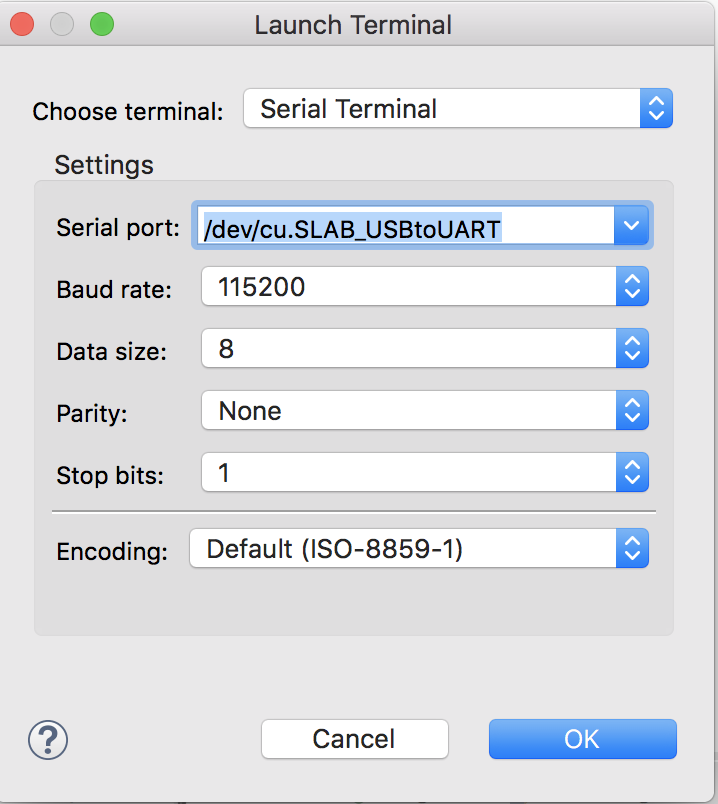
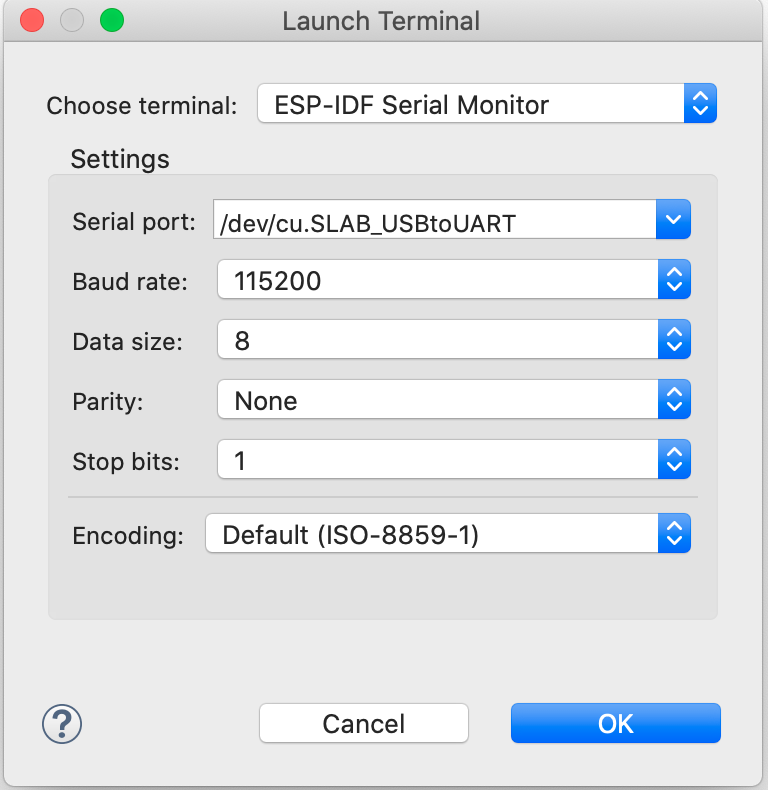
Update doc on ESP-IDF Serial Monitor

diff --git a/README.md b/README.md
@@ -15,6 +15,7 @@ IDF Eclipse Plugins aim to provide better tooling capabilities, which simplifies
 * [ CMake Editor](#cmakeproject)<br>
 * [ Debugging the Project ](#debugging)<br>
 * [ ESP-IDF Application Size Analysis Editor](#sizeanalysiseditor)<br>
+* [ ESP-IDF Terminal](#idfterminal)<br>
 * [ Configuring Build Environment Variables ](#configureEnvironmentVariables)<br>
 * [ Configuring Core Build Toolchain ](#ConfigureToolchains)<br>
 * [ Configuring CMake Toolchain ](#ConfigureCMakeToolchain)<br>
@@ -126,12 +127,12 @@ To provide the customized flash arguments, please follow [this](#customizeLaunch
 
 <a name="ConfigureLaunchTerminal"></a>
 # Viewing Serial Output
-To see the serial output in Eclipse, we need to configure the Eclipse terminal to connect to the serial port.
+To see the serial output in Eclipse, we need to configure the `ESP-IDF Serial Monitor` to connect to the serial port.
 
 * Click on the `Open a Terminal` icon from the toolbar
-* Choose `Serial Terminal` from the terminal drop-down
-* Select `Serial Port` for your board. Example: `/dev/cu.SLAB_USBtoUART`
-* Configure the remaining settings and click on Ok to launch the Eclipse terminal, which will listen to the USB port
+* Choose `ESP-IDF Serial Monitor` from the terminal drop-down
+* Select `Serial Port` for your board if it's not detected. Baud Rate and Serial Port settings are auto-configured by default. 
+* Click on `OK` to launch the terminal, which will listen to the USB port
 
 ![](docs/images/10_serial_terminal.png)
 
@@ -169,7 +170,7 @@ Predefined debug launch configuration files can be found  <a href ="https://gith
 Please refer to [Importing Debug Launch Configuration](#customizeLaunchConfig) section for importing the existing configuration files into Eclipse. Make sure to modify the debug launch configuraton project specific settings after importing.
 
 <a name="sizeanalysiseditor"></a>
-# ESP-IDF: Application Size Analysis
+# ESP-IDF Application Size Analysis
 Application Size Analysis editor provides a way to analyze the static memory footprint of your application. It has two sections - Overview and Details. The **Overview** section provides a summary of the application memory usage and the **Details** section will have in-depth details about components and per-symbol level memory information.
 
 Details table viewer also provides you with searching and sorting capabilities on various columns.
@@ -193,8 +194,8 @@ This would launch a local terminal with all the environment variables which are 
 The terminal PATH is also configured with `esptool`, `espcoredump`, `partition_table`, and `app_update` component paths so that it will be handy to access them directly from the ESP-IDF terminal.
 
 To launch the ESP-IDF Terminal:
-* Click on `Open a Terminal` icon from  the Eclipse toolbar
-* Choose `ESP-IDF Terminal` from list and click `OK` to launch a terminal
+* Click on the `Open a Terminal` icon from the toolbar
+* Choose `ESP-IDF Terminal` from the terminal drop-down and click `OK` to launch a terminal
 
 ![](docs/images/idf_terminal.png)
 
